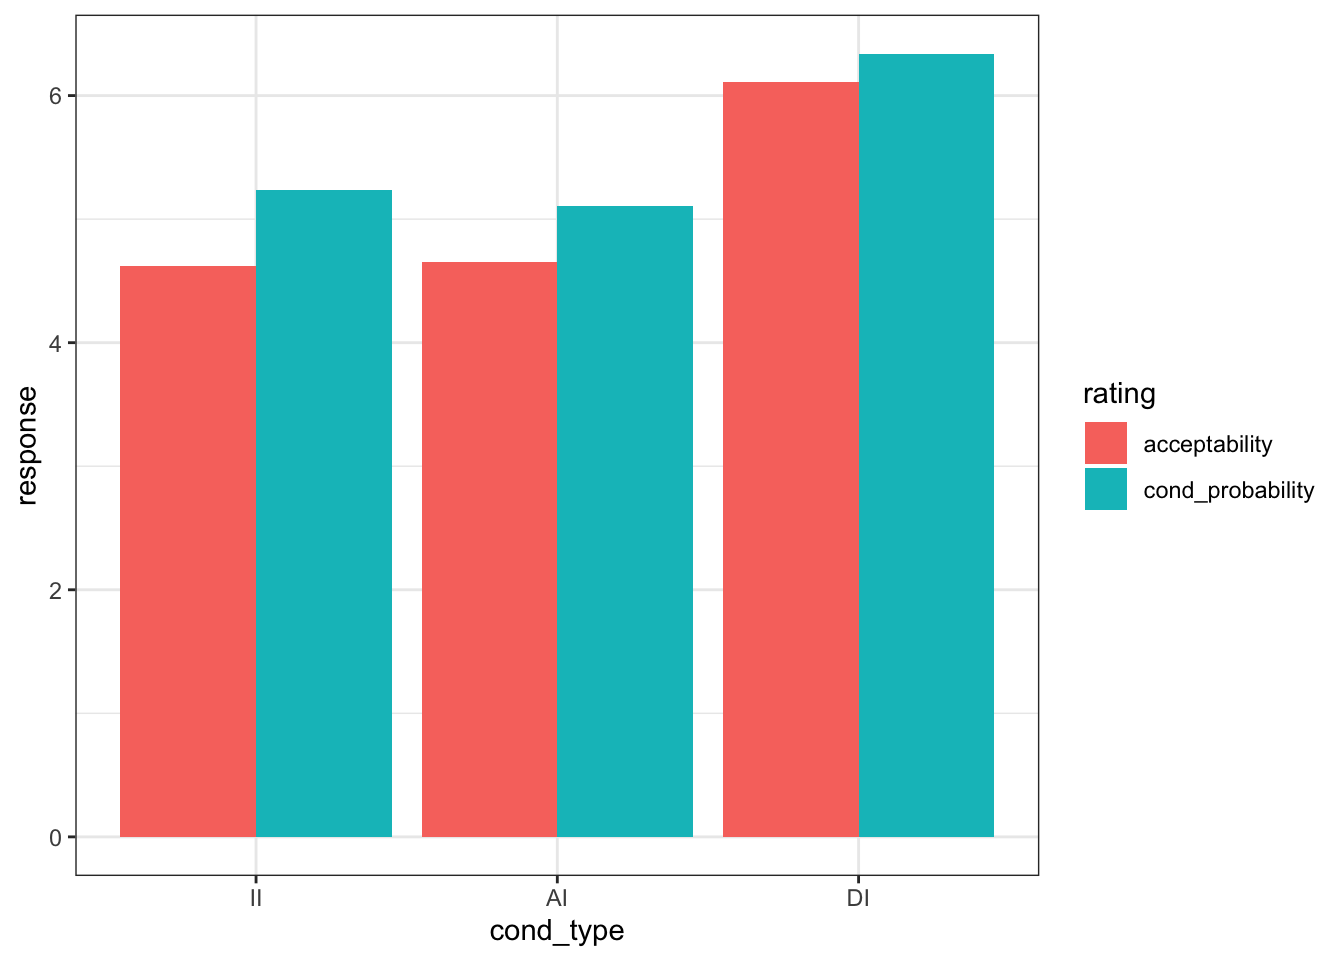
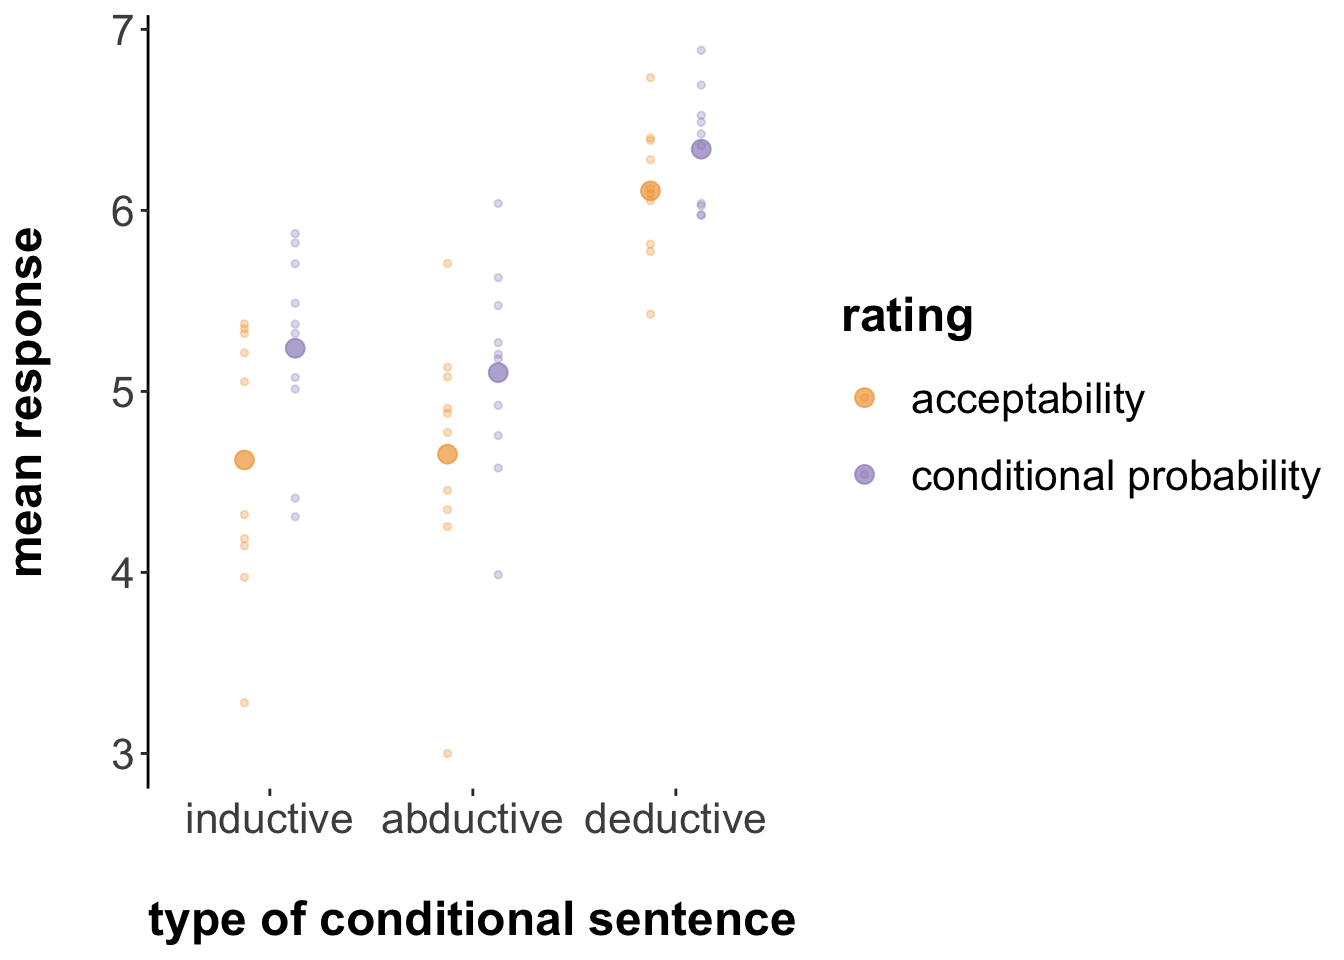
prettier graph for data analysis

diff --git a/site/script/case-study-on-acceptability-of-indicative-conditionals.html b/site/script/case-study-on-acceptability-of-indicative-conditionals.html
@@ -173,7 +173,12 @@ code span.wa { color: #60a0b0; font-weight: bold; font-style: italic; } /* Warni
 </ul></li>
 </ul></li>
 <li class="chapter" data-level="7" data-path="deployment-of-magpie-experiments.html"><a href="deployment-of-magpie-experiments.html"><i class="fa fa-check"></i><b>7</b> Deployment of _magpie experiments</a></li>
-<li class="chapter" data-level="8" data-path="advanced-features-of-magpie.html"><a href="advanced-features-of-magpie.html"><i class="fa fa-check"></i><b>8</b> Advanced features of _magpie</a></li>
+<li class="chapter" data-level="8" data-path="advanced-features-of-magpie.html"><a href="advanced-features-of-magpie.html"><i class="fa fa-check"></i><b>8</b> Advanced features of _magpie</a><ul>
+<li class="chapter" data-level="8.1" data-path="advanced-features-of-magpie.html"><a href="advanced-features-of-magpie.html#changing-the-css-styles"><i class="fa fa-check"></i><b>8.1</b> Changing the CSS styles</a></li>
+<li class="chapter" data-level="8.2" data-path="advanced-features-of-magpie.html"><a href="advanced-features-of-magpie.html#customize-the-post-survey-enquette"><i class="fa fa-check"></i><b>8.2</b> Customize the post-survey enquette</a></li>
+<li class="chapter" data-level="8.3" data-path="advanced-features-of-magpie.html"><a href="advanced-features-of-magpie.html#add-a-short-pause-between-trials"><i class="fa fa-check"></i><b>8.3</b> Add a short pause between trials</a></li>
+<li class="chapter" data-level="8.4" data-path="advanced-features-of-magpie.html"><a href="advanced-features-of-magpie.html#add-a-response-check"><i class="fa fa-check"></i><b>8.4</b> Add a response check</a></li>
+</ul></li>
 <li class="chapter" data-level="9" data-path="references.html"><a href="references.html"><i class="fa fa-check"></i><b>9</b> References</a></li>
 <li class="chapter" data-level="" data-path="references-1.html"><a href="references-1.html"><i class="fa fa-check"></i>References</a></li>
 <li class="divider"></li>
@@ -336,8 +341,8 @@ code span.wa { color: #60a0b0; font-weight: bold; font-style: italic; } /* Warni
 <a class="sourceLine" id="cb5-6" data-line-number="6">  </a>
 <a class="sourceLine" id="cb5-7" data-line-number="7"><span class="kw">message</span>(<span class="st">&quot;Remove data from &quot;</span>, </a>
 <a class="sourceLine" id="cb5-8" data-line-number="8">        <span class="kw">filter</span>(d, trial_too_fast <span class="op">==</span><span class="st"> </span>T) <span class="op">%&gt;%</span><span class="st"> </span><span class="kw">nrow</span>(), </a>
-<a class="sourceLine" id="cb5-9" data-line-number="9">        <span class="st">&quot; trial for being too fast.&quot;</span>)</a></code></pre></div>
-<pre><code>## Remove data from 38 trial for being too fast.</code></pre>
+<a class="sourceLine" id="cb5-9" data-line-number="9">        <span class="st">&quot; trials for being too fast.&quot;</span>)</a></code></pre></div>
+<pre><code>## Remove data from 38 trials for being too fast.</code></pre>
 <div class="sourceCode" id="cb7"><pre class="sourceCode r"><code class="sourceCode r"><a class="sourceLine" id="cb7-1" data-line-number="1">d =<span class="st"> </span><span class="kw">filter</span>(d, subj_too_fast <span class="op">==</span><span class="st"> </span>F)</a></code></pre></div>
 <p>We can plot the average data similar for visual inspection in parallel to the above figure from the original paper:</p>
 <div class="sourceCode" id="cb8"><pre class="sourceCode r"><code class="sourceCode r"><a class="sourceLine" id="cb8-1" data-line-number="1"><span class="co">#######################################</span></a>
@@ -348,9 +353,40 @@ code span.wa { color: #60a0b0; font-weight: bold; font-style: italic; } /* Warni
 <a class="sourceLine" id="cb8-6" data-line-number="6">d_means =<span class="st"> </span>d <span class="op">%&gt;%</span><span class="st"> </span><span class="kw">group_by</span>(rating, cond_type) <span class="op">%&gt;%</span><span class="st"> </span></a>
 <a class="sourceLine" id="cb8-7" data-line-number="7"><span class="st">  </span><span class="kw">summarize</span>(<span class="dt">response =</span> <span class="kw">mean</span>(response))</a>
 <a class="sourceLine" id="cb8-8" data-line-number="8"></a>
-<a class="sourceLine" id="cb8-9" data-line-number="9">d_means <span class="op">%&gt;%</span><span class="st"> </span><span class="kw">ggplot</span>(<span class="kw">aes</span>(<span class="dt">x =</span> cond_type, <span class="dt">y =</span> response, <span class="dt">fill =</span> rating)) <span class="op">+</span></a>
-<a class="sourceLine" id="cb8-10" data-line-number="10"><span class="st">  </span><span class="kw">geom_bar</span>(<span class="dt">stat =</span> <span class="st">&quot;identity&quot;</span>, <span class="dt">position =</span> <span class="st">&quot;dodge&quot;</span>) </a></code></pre></div>
+<a class="sourceLine" id="cb8-9" data-line-number="9">d_means_item =<span class="st"> </span>d <span class="op">%&gt;%</span><span class="st"> </span><span class="kw">group_by</span>(rating, cond_type, item_nr) <span class="op">%&gt;%</span><span class="st"> </span></a>
+<a class="sourceLine" id="cb8-10" data-line-number="10"><span class="st">  </span><span class="kw">summarize</span>(<span class="dt">response =</span> <span class="kw">mean</span>(response))</a>
+<a class="sourceLine" id="cb8-11" data-line-number="11"></a>
+<a class="sourceLine" id="cb8-12" data-line-number="12">d_means <span class="op">%&gt;%</span><span class="st"> </span><span class="kw">ggplot</span>(<span class="kw">aes</span>(<span class="dt">x =</span> cond_type, <span class="dt">y =</span> response, <span class="dt">color =</span> rating)) <span class="op">+</span></a>
+<a class="sourceLine" id="cb8-13" data-line-number="13"><span class="st">  </span><span class="kw">geom_point</span>(<span class="dt">position =</span> <span class="kw">position_dodge</span>(<span class="fl">0.5</span>),     <span class="dt">alpha =</span> <span class="fl">0.7</span>,   <span class="dt">size =</span> <span class="dv">3</span>) <span class="op">+</span></a>
+<a class="sourceLine" id="cb8-14" data-line-number="14"><span class="st">  </span><span class="kw">geom_point</span>(<span class="dt">data =</span> d_means_item, <span class="dt">position =</span> <span class="kw">position_dodge</span>(<span class="fl">0.5</span>), <span class="dt">alpha =</span> <span class="fl">0.3</span>, <span class="dt">size =</span> <span class="dv">1</span>) <span class="op">+</span></a>
+<a class="sourceLine" id="cb8-15" data-line-number="15"><span class="st">  </span><span class="kw">ylab</span>(<span class="st">&quot;mean response</span><span class="ch">\n</span><span class="st">&quot;</span>) <span class="op">+</span></a>
+<a class="sourceLine" id="cb8-16" data-line-number="16"><span class="st">  </span><span class="kw">xlab</span>(<span class="st">&quot;</span><span class="ch">\n</span><span class="st">type of conditional sentence&quot;</span>) <span class="op">+</span></a>
+<a class="sourceLine" id="cb8-17" data-line-number="17"><span class="st">  </span><span class="kw">theme_classic</span>() <span class="op">+</span></a>
+<a class="sourceLine" id="cb8-18" data-line-number="18"><span class="st">  </span><span class="kw">scale_x_discrete</span>(<span class="dt">breaks =</span> <span class="kw">c</span>(<span class="st">&quot;II&quot;</span>, <span class="st">&quot;AI&quot;</span>, <span class="st">&quot;DI&quot;</span>),</a>
+<a class="sourceLine" id="cb8-19" data-line-number="19">                   <span class="dt">labels =</span> <span class="kw">c</span>(<span class="st">&quot;inductive&quot;</span>, <span class="st">&quot;abductive&quot;</span>, <span class="st">&quot;deductive&quot;</span>)) <span class="op">+</span></a>
+<a class="sourceLine" id="cb8-20" data-line-number="20"><span class="st">  </span><span class="kw">scale_colour_manual</span>(<span class="dt">breaks =</span> <span class="kw">c</span>(<span class="st">&quot;acceptability&quot;</span>, <span class="st">&quot;cond_probability&quot;</span>),</a>
+<a class="sourceLine" id="cb8-21" data-line-number="21">                      <span class="dt">labels =</span> <span class="kw">c</span>(<span class="st">&quot;acceptability&quot;</span>, <span class="st">&quot;conditional probability&quot;</span>),</a>
+<a class="sourceLine" id="cb8-22" data-line-number="22">                      <span class="dt">values =</span> <span class="kw">c</span>(<span class="st">&quot;#f1a340&quot;</span>, <span class="st">&quot;#998ec3&quot;</span>)) <span class="op">+</span></a>
+<a class="sourceLine" id="cb8-23" data-line-number="23"><span class="st">  </span><span class="kw">scale_fill_manual</span>(<span class="dt">breaks =</span> <span class="kw">c</span>(<span class="st">&quot;acceptability&quot;</span>, <span class="st">&quot;conditional probability&quot;</span>),</a>
+<a class="sourceLine" id="cb8-24" data-line-number="24">                      <span class="dt">labels =</span> <span class="kw">c</span>(<span class="st">&quot;acceptability&quot;</span>, <span class="st">&quot;conditional probability&quot;</span>),</a>
+<a class="sourceLine" id="cb8-25" data-line-number="25">                      <span class="dt">values =</span> <span class="kw">c</span>(<span class="st">&quot;#f1a340&quot;</span>, <span class="st">&quot;#998ec3&quot;</span>)) <span class="op">+</span></a>
+<a class="sourceLine" id="cb8-26" data-line-number="26"><span class="st">  </span><span class="kw">theme</span>(<span class="dt">legend.position =</span> <span class="st">&quot;right&quot;</span>,</a>
+<a class="sourceLine" id="cb8-27" data-line-number="27">        <span class="dt">legend.key.height =</span> <span class="kw">unit</span>(<span class="dv">2</span>,<span class="st">&quot;line&quot;</span>),</a>
+<a class="sourceLine" id="cb8-28" data-line-number="28">        <span class="dt">legend.title =</span> <span class="kw">element_text</span>(<span class="dt">size =</span> <span class="dv">18</span>, <span class="dt">face =</span> <span class="st">&quot;bold&quot;</span>),</a>
+<a class="sourceLine" id="cb8-29" data-line-number="29">        <span class="dt">legend.text =</span> <span class="kw">element_text</span>(<span class="dt">size =</span> <span class="dv">16</span>),</a>
+<a class="sourceLine" id="cb8-30" data-line-number="30">        <span class="dt">legend.background =</span> <span class="kw">element_rect</span>(<span class="dt">fill =</span> <span class="st">&quot;transparent&quot;</span>),</a>
+<a class="sourceLine" id="cb8-31" data-line-number="31">        <span class="dt">strip.background =</span> <span class="kw">element_blank</span>(),</a>
+<a class="sourceLine" id="cb8-32" data-line-number="32">        <span class="dt">strip.text =</span> <span class="kw">element_text</span>(<span class="dt">size =</span> <span class="dv">18</span>, <span class="dt">face =</span> <span class="st">&quot;bold&quot;</span>),</a>
+<a class="sourceLine" id="cb8-33" data-line-number="33">        <span class="dt">axis.line.x =</span> <span class="kw">element_blank</span>(),</a>
+<a class="sourceLine" id="cb8-34" data-line-number="34">        <span class="dt">panel.spacing =</span> <span class="kw">unit</span>(<span class="dv">2</span>, <span class="st">&quot;lines&quot;</span>),</a>
+<a class="sourceLine" id="cb8-35" data-line-number="35">        <span class="dt">plot.background =</span> <span class="kw">element_rect</span>(<span class="dt">fill =</span> <span class="st">&quot;transparent&quot;</span>, <span class="dt">colour =</span> <span class="ot">NA</span>),</a>
+<a class="sourceLine" id="cb8-36" data-line-number="36">        <span class="dt">panel.background =</span> <span class="kw">element_rect</span>(<span class="dt">fill =</span> <span class="st">&quot;transparent&quot;</span>),</a>
+<a class="sourceLine" id="cb8-37" data-line-number="37">        <span class="dt">axis.text =</span> <span class="kw">element_text</span>(<span class="dt">size =</span> <span class="dv">16</span>),</a>
+<a class="sourceLine" id="cb8-38" data-line-number="38">        <span class="dt">axis.title =</span> <span class="kw">element_text</span>(<span class="dt">size =</span> <span class="dv">18</span>, <span class="dt">face =</span> <span class="st">&quot;bold&quot;</span>),</a>
+<a class="sourceLine" id="cb8-39" data-line-number="39">        <span class="dt">plot.title =</span> <span class="kw">element_text</span>(<span class="dt">size =</span> <span class="dv">18</span>, <span class="dt">face =</span> <span class="st">&quot;bold&quot;</span>),</a>
+<a class="sourceLine" id="cb8-40" data-line-number="40">        <span class="dt">plot.margin =</span> <span class="kw">unit</span>(<span class="kw">c</span>(<span class="fl">0.2</span>,<span class="fl">0.1</span>,<span class="fl">0.2</span>,<span class="fl">0.1</span>),<span class="st">&quot;cm&quot;</span>))</a></code></pre></div>
 <p><img src="magpie-esslli-course_files/figure-html/unnamed-chunk-4-1.png" width="672" style="display: block; margin: auto;" /></p>
+<p>The plot shows the means of the given ratings (we (hesitantly) follow the original paper in assuming that taking means is legitimate for this ordinal measure) for each relevant condition in the bigger dots, together with the means for each individual test sentence in the smaller dots. The latter showcases partly the variability in the given ratings.</p>
 <p>Visually, it appears that ratings of “acceptability” are always tendetially lower, on average, that ratings of “conditional probability”, irrespective of the conditional type, although this (visual!) effect seems smaller in case of deductive conditionals.</p>
 </div>
 <div id="analyses-for-h1" class="section level3">
